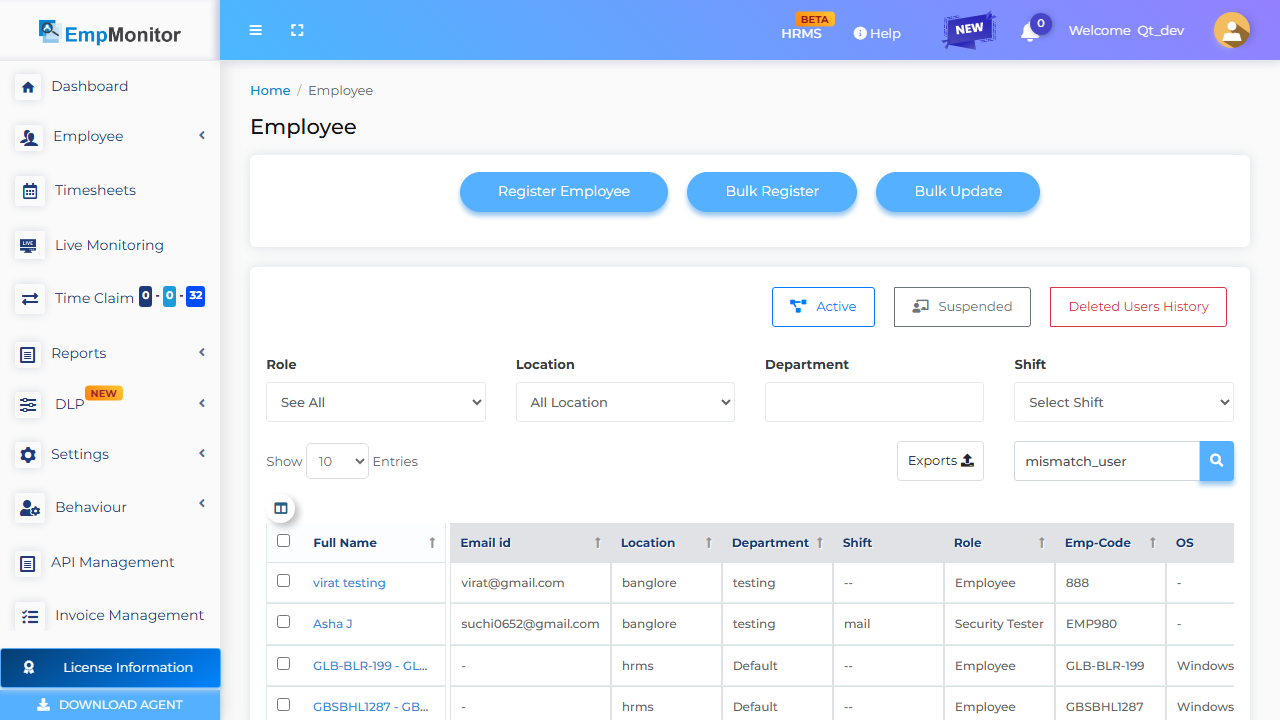
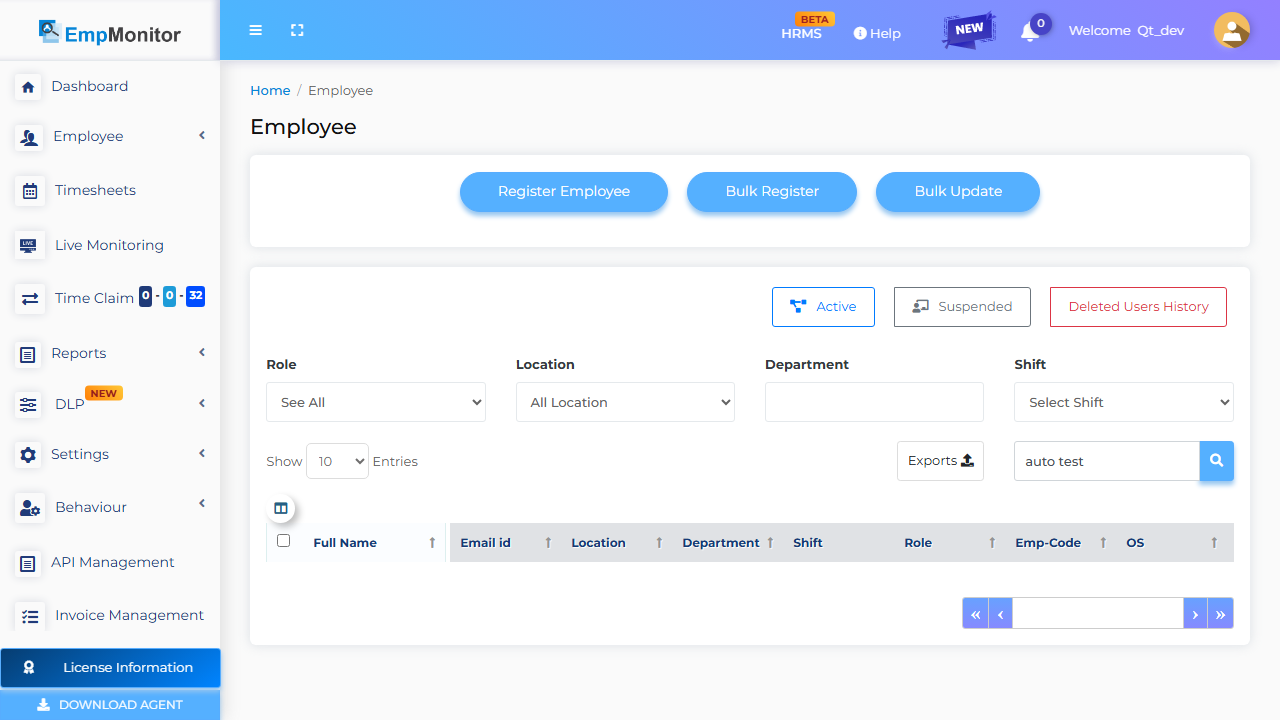
fix(orchestration): enhance L4 dashboard email extraction with page content regex fallback

diff --git a/run_regression.py b/run_regression.py
@@ -276,22 +276,17 @@ def audit_web_dashboard(target_user: str, auth_state_path: str = "playwright-pro
                         edit_link.click()
                         
                         email_input = page.locator("input[placeholder*='Email'], input[name*='email'], #email, #edit_email, #emp_emailAddress").first
-                        expect(email_input).to_be_visible(timeout=10000)
-                        
                         try:
-                            page.wait_for_function(
-                                "el => el && el.value && el.value.trim().length > 0",
-                                arg=email_input.element_handle(),
-                                timeout=5000
-                            )
+                            expect(email_input).to_be_visible(timeout=10000)
+                            page.wait_for_timeout(2000)
+                            extracted = email_input.input_value()
+                            if extracted and "@" in extracted:
+                                results["dashboard_email"] = extracted.strip()
                         except Exception:
                             pass
-                        
-                        results["dashboard_email"] = email_input.input_value()
-                        logger.info(f"[L4 EXTRACTED] Dashboard Registered Email: {results['dashboard_email']}")
 
                         modal_screenshot = EVIDENCE_DIR / "02_employee_edit_modal.png"
-                        page.wait_for_timeout(3000)
+                        page.wait_for_timeout(2000)
                         page.screenshot(path=str(modal_screenshot), timeout=30000)
                         results["evidence_files"].append("02_employee_edit_modal.png")
 
@@ -302,8 +297,19 @@ def audit_web_dashboard(target_user: str, auth_state_path: str = "playwright-pro
                         else:
                             page.keyboard.press("Escape")
                 except Exception as e:
-                    logger.warning(f"Could not extract modal email: {e}")
+                    logger.warning(f"Edit Modal interaction warning: {e}")
 
+                # Fallback email extraction from page content if modal value was empty
+                if not results["dashboard_email"]:
+                    try:
+                        all_emails = re.findall(r'[a-zA-Z0-9._%+-]+@[a-zA-Z0-9.-]+\.[a-zA-Z]{2,}', page.content())
+                        valid_emails = [e for e in all_emails if not any(sys_domain in e for sys_domain in ["empmonitor.com", "w3.org", "schema.org", "example.com"])]
+                        if valid_emails:
+                            results["dashboard_email"] = valid_emails[0].strip()
+                    except Exception:
+                        pass
+
+                logger.info(f"[L4 EXTRACTED] Dashboard Registered Email: {results['dashboard_email']}")
                 results["telemetry_summary"] = "User active on Web Dashboard (Email & Grid verified)."
 
             else:

diff --git a/reports/regression_report.md b/reports/regression_report.md
@@ -2,23 +2,23 @@
 
 ## 1. Execution Metadata Summary
 
-- **Date & Time**: `2026-08-22 11:01:46`
+- **Date & Time**: `2026-08-22 11:02:19`
 - **Agent Version Evaluated**: `3.5.0`
 - **Local Active Host Email (L1)**: `autotest@gmail.com`
-- **Searched Dashboard User (L4)**: `mismatch_user`
+- **Searched Dashboard User (L4)**: `auto test`
 - **Dashboard Registered Email (L4)**: `N/A`
 - **Final System Verdict**: **`FAILED`**
 
 ### ⚠ Discrepancy Warnings
 
-- 🔴 **[DISCREPANCY]**: Searched dashboard user 'mismatch_user' was NOT found in the Employee Details grid.
+- 🔴 **[DISCREPANCY]**: Email Discrepancy Mismatch! Local Host Email ('autotest@gmail.com') != Dashboard Email ('None')
 
 ---
 
 ## 2. Layer 1 System Configuration Audit
 
 - **Local INI Path**: `C:\Users\Ad tester\AppData\Roaming\screen\OjUpjH-\empm.ini`
-- **INI File Size**: `7.12 KB` (EV-001 Requirement: > 3.0 KB)
+- **INI File Size**: `7.13 KB` (EV-001 Requirement: > 3.0 KB)
 
 ### Binary Presence & Running Process Status
 
@@ -50,7 +50,7 @@ last_sync_time = @DateTime(\0\0\0\x10\0\0\0\0\0\0%\x8e[\x2]/\xbf\0)
 is_system_locked = false
 currentdate = @Variant(\0\0\0\xe\0%\x8e[)
 datasendingperiodsec = 180
-lastsettingsaccessdatetime = @DateTime(\0\0\0\x10\0\0\0\0\0\0%\x8e[\x1/l\xf6\x1)
+lastsettingsaccessdatetime = @DateTime(\0\0\0\x10\0\0\0\0\0\0%\x8e[\x1/\xbb\a\x1)
 todayremainingbreakinseconds = 1800
 from_remote\aduserinfosendpersec = 21600
 from_remote\screenshotperiodsec = 60
@@ -292,6 +292,6 @@ data\work_hour_billing\currency = inr
 
 ## 4. Layer 4 Visual Evidence Artifacts
 
-### Evidence: `01_empty_search_result.png`
-![01_empty_search_result.png](evidence/01_empty_search_result.png)
-Link: [01_empty_search_result.png](evidence/01_empty_search_result.png)
+### Evidence: `01_employee_grid_match.png`
+![01_employee_grid_match.png](evidence/01_employee_grid_match.png)
+Link: [01_employee_grid_match.png](evidence/01_employee_grid_match.png)
